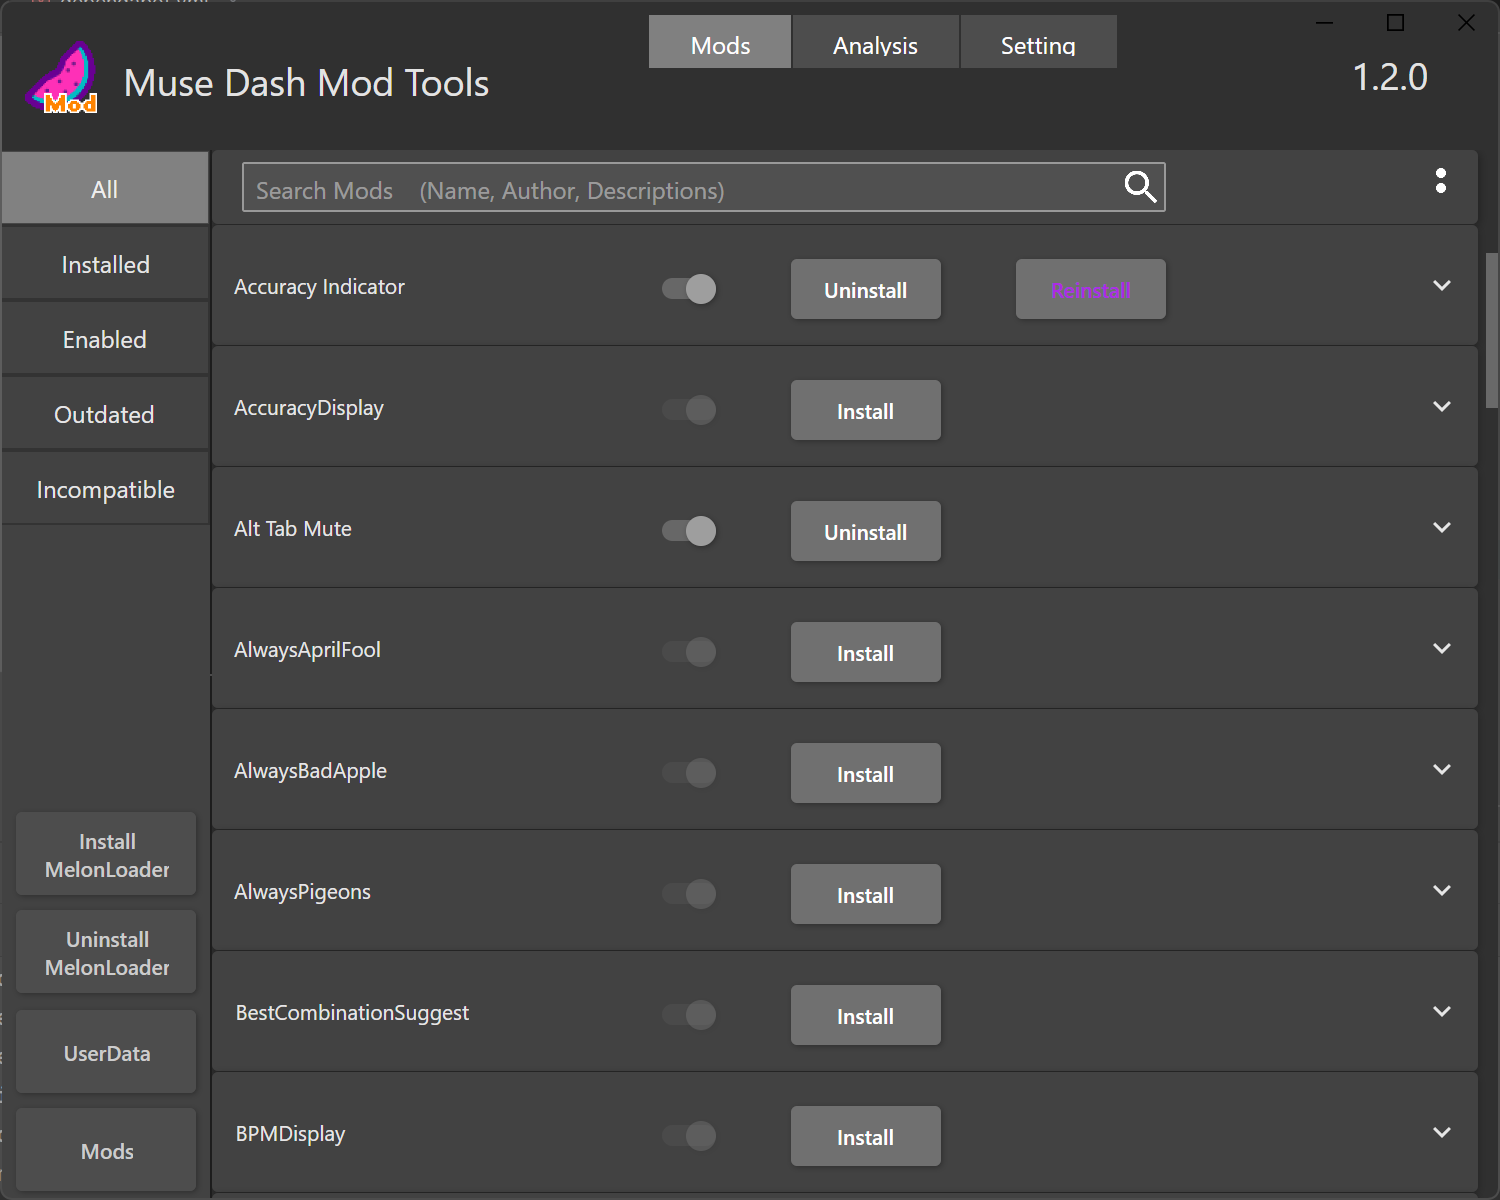
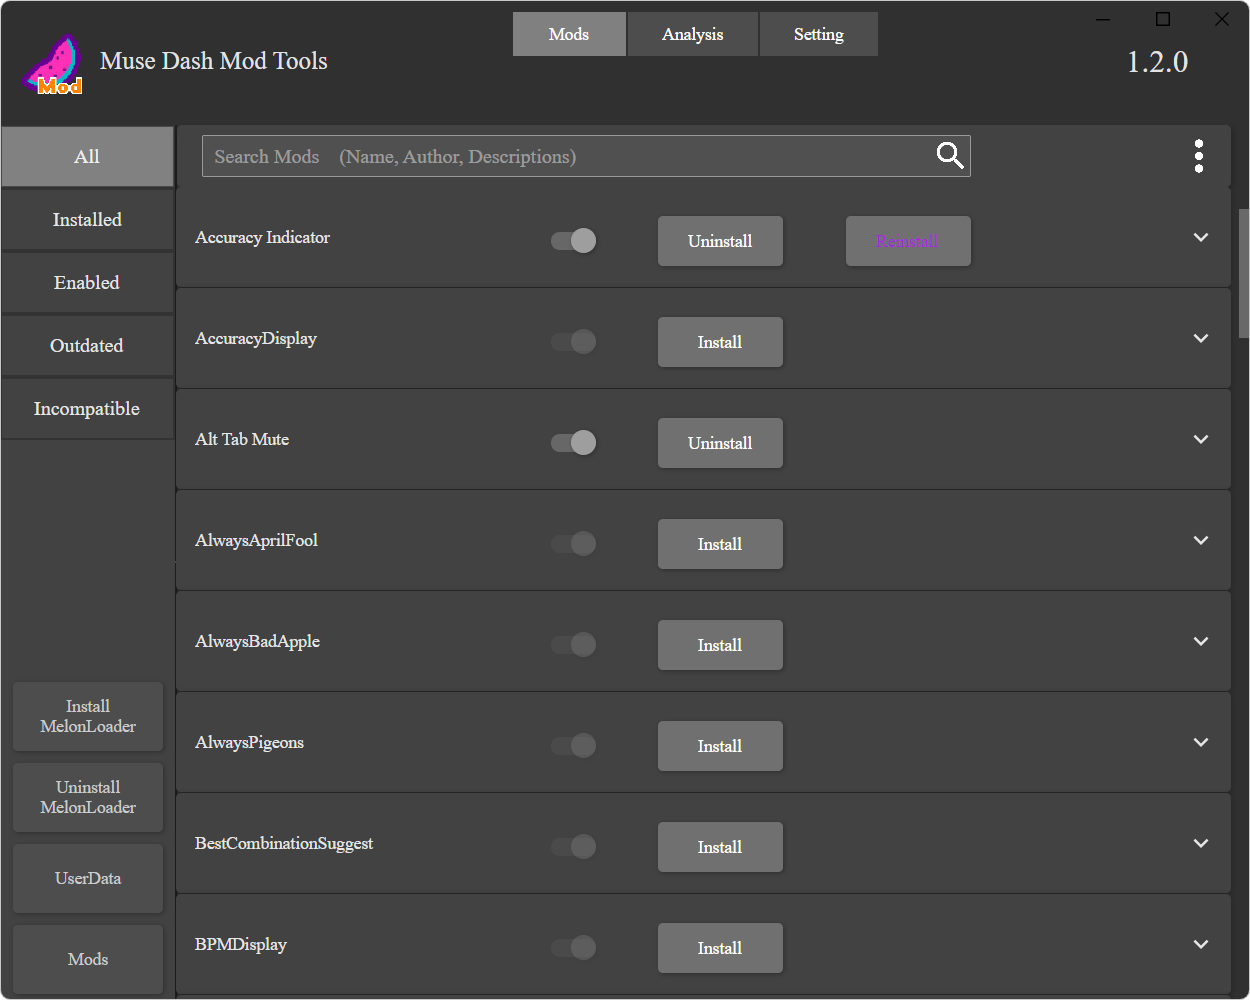
update readme

diff --git a/README.md b/README.md
@@ -6,10 +6,6 @@
 [![Crowdin](https://badges.crowdin.net/musedashmodtools/localized.svg)](https://crowdin.com/project/musedashmodtools)
 [![Star](https://img.shields.io/github/stars/MDModsDev/MuseDashModToolsUI)](https://github.com/MDModsDev/MuseDashModToolsUI/stargazers)
 [![Release Version](https://img.shields.io/github/v/release/MDModsDev/MuseDashModToolsUI)](https://github.com/MDModsDev/MuseDashModToolsUI/releases/latest)
-![Code Count](https://img.shields.io/endpoint?url=https%3A%2F%2Fghloc.vercel.app%2Fapi%2FMDModsDev%2FMuseDashModToolsUI%2Fbadge)
-
-### V1.2.0 Prerelease is available now!
-[Prerelease Download](https://github.com/MDModsDev/MuseDashModToolsUI/releases/tag/1.2.0-rc1)
 
 ## A UI app for making muse dash modding easier
 [中文说明](https://www.bilibili.com/read/cv22748380)
@@ -24,6 +20,7 @@
 7. Roughly analyze your log file when launching the game meet problems
 8. Setting window for adjusting font and language at runtime
 9. Change download source of mods (Github,Github Mirror or Gitee)
+10. Download prerelease build of Muse Dash Mod Tools in setting window
 
 
 ### Screenshot
@@ -36,12 +33,11 @@
 #### Current Supported Languages:
 
 1. English (Default)
-2. Chinese Simplified
-3. Chinese Traditional
-4. Hungarian
-5. Russian
-6. Spanish
-
+2. Chinese Simplified (Full)
+3. Chinese Traditional (Partial)
+4. Hungarian (Partial)
+5. Russian (Partial)
+6. Spanish (Partial)
 
 
 **If you want to contribute to translation, use [Crowdin](https://crowdin.com/project/musedashmodtools) to translate.** (If you cannot find the language you want to translate, ask me on discord or create an issue)
